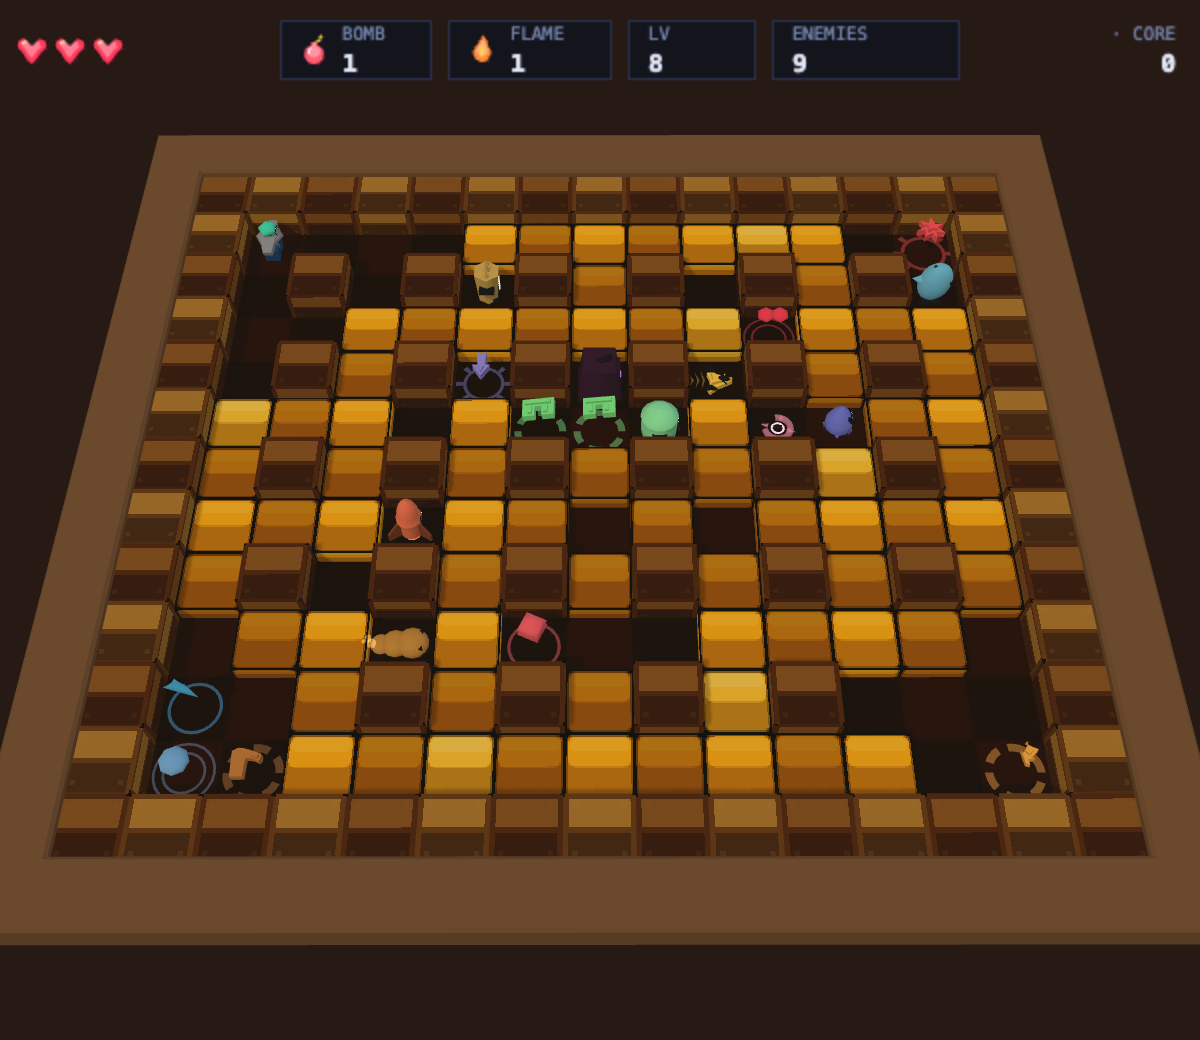
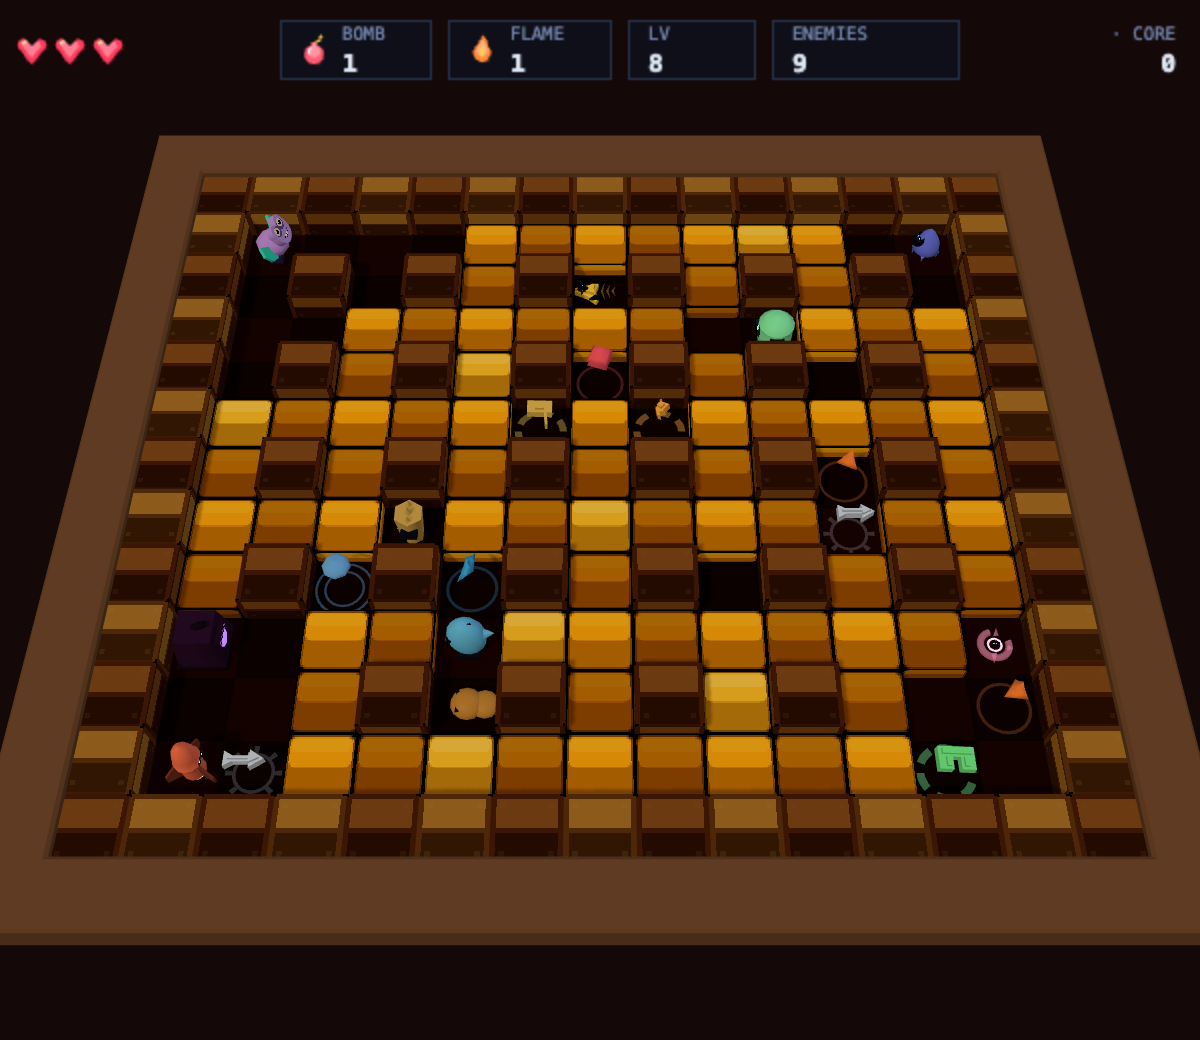
Recapture the listing art now that the hero is MAKO, not the humanoid.
og.png hero, the four biome/menu stills, the cover crop and the run GIF all
showed the earlier gunmetal player; MAKO (spec 2026-09-06 §2.7, PLAYER_HULL
#c39cff) is now visible in every asset. og.png's board pixels were replaced
in place — wordmark/chips/pill are the prior card's own pixels, restored
per-pixel so no trace of the old hero's silhouette survives in the gaps.

diff --git a/media/README.md b/media/README.md
@@ -16,26 +16,38 @@ enemies) so the moment on screen is reachable in one script instead of
 minutes of RNG-dependent natural play. Each row below says which of those it
 used.
 
-Last recaptured **2026-09-05**, after the full items + player + menu program
-landed: P1–P4 (rebuilt pickup glyphs/bodies and the player kite/crown/visor
-stack), S1–S3 (OPTIONS screen, pause menu, chrome removal), R1 (player
-redesigned mature/armoured — tapered gunmetal hull, mid-value `PLAYER_HULL`,
-pointed crest), R2 (HOW TO PLAY / ITEMS / ENEMIES folded into one GUIDE page;
-the `#hud` DOM strip deleted for good, replaced by the in-canvas HUD row) and
-R3 (soundtrack rewrite — audio only, not pictured here). A prior recapture
-attempt was interrupted before R1–R3 landed and is superseded; every still
-below shows the current art, not the pre-pass shapes.
+Last recaptured **2026-09-06**, after MAKO (the reef-critter mascot, spec
+§2.7) replaced every prior humanoid hero — SIGNAL RUNNER and IONVEST are both
+superseded, and 2D and 3D once again share one character (`PLAYER_HULL` ===
+`PLAYER_SUIT` === `#c39cff`). The 2026-09-05 pass is still the last time
+menu/GUIDE chrome changed (P1–P4 pickups, S1–S3 OPTIONS/pause/chrome-removal,
+R2 folding HOW TO PLAY / ITEMS / ENEMIES under GUIDE); this pass only
+recaptures pixels to swap the hero, and did not touch layout. Every still
+below (plus root `og.png`) shows MAKO, not the earlier gunmetal-hulled hero.
 
 ## Assets
 
 | File | Use | Provenance |
 |---|---|---|
-| `cover-630x500.png` | itch.io game cover (630×500) | Dedicated live capture (not a crop of `og.png`, whose 1200-wide hero has no 630×500 crop that clears its own text without cutting it): real 3D (`?render=3d&debug=1`), JUNGLE room 1. Staged, not natural play: player and a bomb object were placed directly via `w.players[0]`/`w.bombs.push(...)` with a shortened timer so the detonation is reachable in a handful of `step()` calls instead of the real 2.5s fuse; `p.iFrames` forced to 0 each render so spawn/hit invulnerability never blinks the hero out. Caught ~50ms after the blast opens a BRICK. `#gl` + `#c` composited onto an offscreen canvas at native 2x-DPR resolution (1200×1040), then downscaled-only (0.525×, no upscale) to a 630×500 cover-fit crop (full width kept, 46px trimmed off top and bottom, split evenly). No HUD chips (the debug hook's render call omits `{hud:true}`), so there is no text at all — nothing to cut off. Shows the R1 hero (armoured kite hull, teal crest) mid-blast. |
-| `still-jungle.png` | Screenshot — room 1 JUNGLE | Live 3D capture, natural `loadLevel` roster (enemies/items untouched): `#gl` (WebGL board) composited with `#c` (HUD overlay, the in-canvas chip row) onto an offscreen canvas, read synchronously right after a forced render. Shows the R1 hero next to a WALKER and a revealed pickup. |
-| `still-ice.png` | Screenshot — room 2 ICE | Same technique, room 2, natural roster. |
-| `still-crown.png` | Screenshot — room 8 CROWN | Same technique, room 8 (the finale look, normally gated behind the first FUSE/GRID CLEAR; `loadLevel(w,8,true)` reaches it directly for capture, not through a save-scummed unlock). Natural roster — nine enemies is what that room actually spawns. |
-| `still-menu.png` | Screenshot — MENU screen | Classic 2D canvas (`#c`) on the MENU screen, captured directly (no WebGL layer active in 2D kind). Shows the post-R2 six-row MENU (PLAY / LEVEL SELECT / OPTIONS / GUIDE / HIGH SCORES / SOURCE) — HOW TO PLAY / ITEMS / ENEMIES now live one hop deeper, under GUIDE. |
-| `play.gif` | Animated preview — a JUNGLE run | Live 3D run driven by the debug hook's `step(n)`. Staged for reliability: a 9-tile brick corridor was carved directly in `w.grid` so the walk/plant/retreat/blast/advance beat fits in ~3.6s instead of hunting a real corridor; the level's enemies were relocated (not deleted — emptying `w.enemies` trips the sim's instant-WIN branch) off to one side so none wander into the shot; the bomb's fuse was shortened the same way as the cover; `p.iFrames` forced to 0 every frame for the same reason. The blast, the brick breaking and the hero's walk cycle are all the real sim/renderer, just cued instead of waited for. 43 frames, 12 fps (~3.6s), 630px wide (ffmpeg `palettegen`/`paletteuse`, scaled down from the native 1200×1040 capture, never upscaled). |
+| `cover-630x500.png` | itch.io game cover (630×500) | Dedicated live capture (not a crop of `og.png`, whose 1200-wide hero has no 630×500 crop that clears its own text without cutting it): real 3D (`?render=3d&debug=1`), JUNGLE room 1. Staged, not natural play: the player was retreated to a diagonal tile clear of the blast arms and a bomb object pushed directly onto `w.bombs` with an already-expired timer so the detonation is reachable in a single `step()` call instead of the real 2.5s fuse; `p.iFrames` forced to 0 each render so spawn/hit invulnerability never blinks the hero out. Caught the instant the blast opens a BRICK. `#gl` + `#c` composited onto an offscreen canvas at native 2×-DPR resolution (1200×1040), then downscaled-only (0.525×, no upscale) to a 630×546 letterbox and cropped to 630×500 (23px trimmed off top and bottom evenly). No HUD chips (the debug hook's render call omits `{hud:true}`), so there is no text at all — nothing to cut off. Shows MAKO (violet body, teal ear-fins, cream eyes) mid-blast. |
+| `still-jungle.png` | Screenshot — room 1 JUNGLE | Live 3D capture, natural `loadLevel` roster (enemies/items untouched, spawn position): `#gl` (WebGL board) composited with `#c` (HUD overlay, the in-canvas chip row) onto an offscreen canvas filled with the opaque JUNGLE `bg1` first, read synchronously right after a forced render (`p.iFrames` forced to 0). Full-image alpha scan: 0 pixels below alpha 250 (border opaque `rgb(6,36,22)`). Shows MAKO at spawn next to a WALKER and a revealed pickup. |
+| `still-ice.png` | Screenshot — room 2 ICE | Same technique, room 2 (reached via the debug hook's `advance()`), natural roster. Border opaque `rgb(10,32,72)`, 0 pixels below alpha 250. |
+| `still-crown.png` | Screenshot — room 8 CROWN | Same technique, room 8 (the finale look, normally gated behind the first FUSE/GRID CLEAR; the debug hook's `advance()` walked level 2→8 directly for capture, not through a save-scummed unlock). Natural roster — nine enemies is what that room actually spawns. Border opaque `rgb(20,8,8)`, 0 pixels below alpha 250. |
+| `still-menu.png` | Screenshot — MENU screen | Classic 2D canvas (`#c`) on the MENU screen (page loaded without `?render=3d`, so `#gl` stays hidden), captured after two `requestAnimationFrame` waits so the menu's entrance animation settles onto the full six-row list before the shot (`app.toMenu()` resets `idleT`, but this session's RAF loop kept running in the background the whole time, so any longer real-time wait risks the 10s MENU→ATTRACT idle timeout firing mid-capture). Shows the post-R2 six-row MENU (PLAY / LEVEL SELECT / OPTIONS / GUIDE / HIGH SCORES / SOURCE) over the frozen board, with MAKO visible on it. |
+| `play.gif` | Animated preview — a JUNGLE run | Live 3D run (`?render=3d&debug=1`) driven by real held-key intents (`window.__GAME__.setKeys`) through the normal RAF-driven sim loop — not manual `step(n)` teleporting, so the walk cycle is the real animation, not a cued pose. Staged for reliability: a short brick corridor was carved directly in `w.grid` (one BRICK left standing as the target), the level's enemies were relocated (not deleted — emptying `w.enemies` trips the sim's instant-WIN branch) off to one side, and the bomb's fuse was shortened (`w.fuse=0.6`) so the walk/plant/retreat/blast/advance beat fits in ~3.5s. The player retreated a full tile past the blast radius before the fuse ran out — confirmed 3 hearts intact end to end, not a staged near-miss. 42 frames, 12 fps (~3.5s), 630px wide (ffmpeg `palettegen`/`paletteuse` with `dither=bayer`, scaled down from the native 1200×1040 capture, never upscaled). 0.60 MB, under the 3 MB gate. |
+
+`og.png` (project root, 1200×630) was recaptured the same session: a fresh
+JUNGLE hero (MAKO, mid-blast, retreated off the blast tiles, `p.iFrames`
+forced 0) was rendered with `scene.background=null` and alpha-scrubbed
+(measured this session: a clean 0/255 bimodal split plus a thin AA fringe —
+no uniform haze this time, unlike the 2026-09-05 P5 note, so the scrub
+threshold was set from the actual histogram, not assumed). It replaces only
+the board pixels of the locked card: the wordmark, the REAL 3D ⇄ CLASSIC 2D
+row, the CORE/PLUS/MAX chips and the PLAY IN THE BROWSER pill are the
+original, unmodified pixels (restored per-pixel from the previous `og.png`
+inside their row bands after a full repaint, so no trace of the old
+humanoid-era board bleeds through the gaps around the text). Card stays
+fully opaque (0 pixels below alpha 255).
 
 ## Rebuilding the zip for itch / Newgrounds / Game Jolt
 
